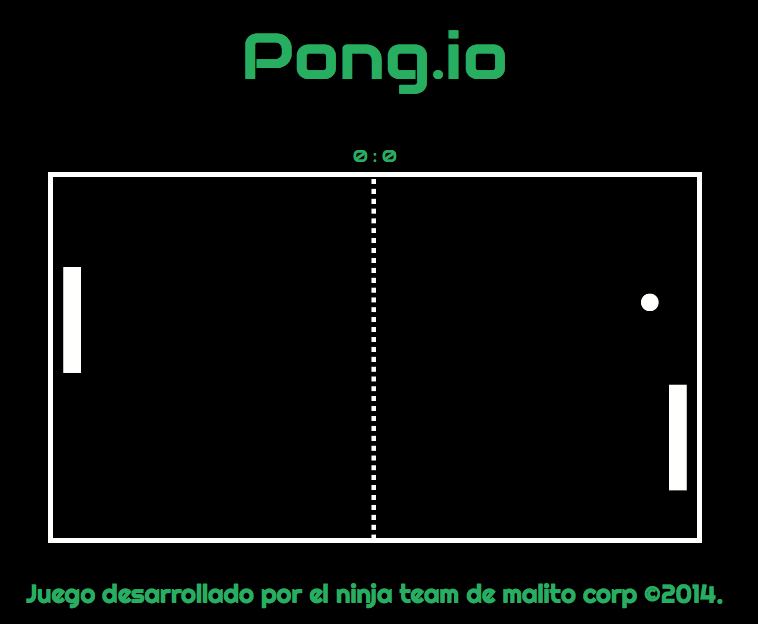
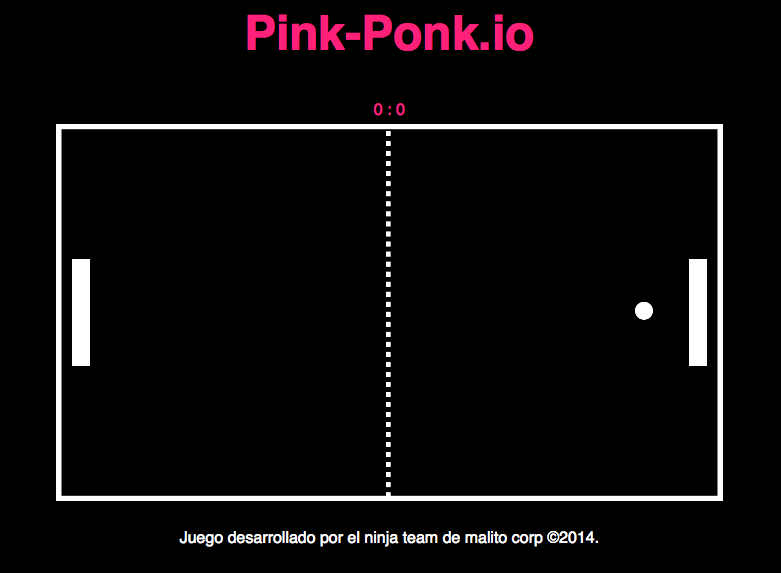
Combio el screenshot para que encaje ene el nuevo diseño, y modifico el readme

diff --git a/README.md b/README.md
@@ -1,6 +1,6 @@
-Pong.io
-=======
+Pink Ponk.io
+============
 
 Recreando el clásico juego de pong pero esta ves con un toque mas divertido :D
 
-![screensho](https://raw.githubusercontent.com/iddar/Pong.io/master/screenshots/screenshot.png "Screenshot del home del juego.")
+![screenshot](https://raw.githubusercontent.com/iddar/Pong.io/master/screenshots/screenshot.png "Screenshot del home del juego.")
